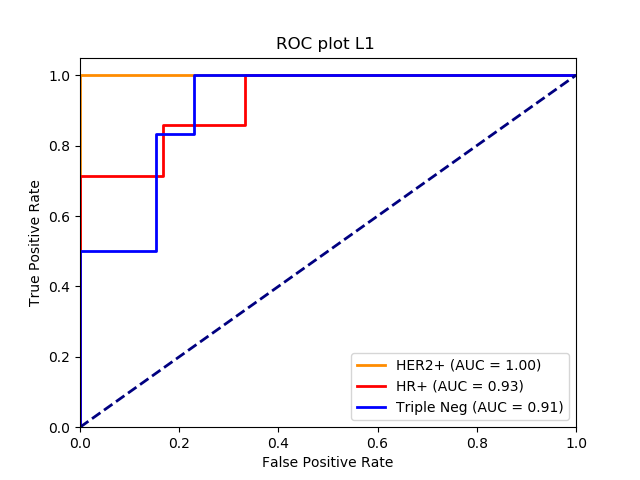
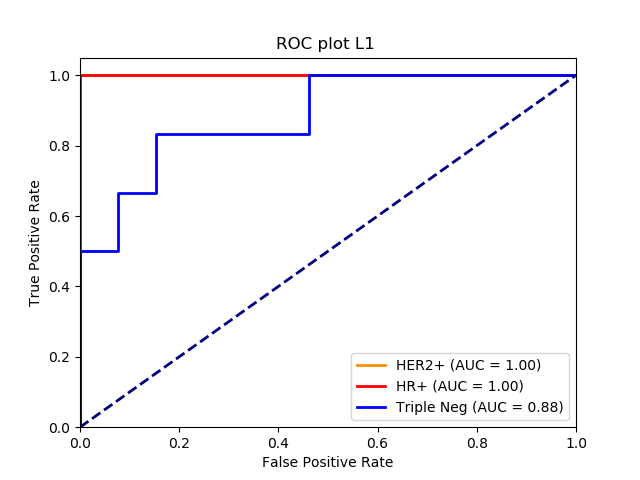
tried to extract best features

Changed region(s): [[0.125, 0.1562, 0.5, 0.5312], [0.75, 0.7812, 0.8125, 0.8125], [0.8438, 0.8438, 0.875, 0.875]]

diff --git a/scripts/Main.py b/scripts/Main.py
@@ -163,6 +163,20 @@ def nested_svm(data, labels, hyperparameters, use_stratified):
     for model in models:
         print(model.n_features, model.best_params, model.c_l1, model.accuracy_validate, model.iteration)
 
+    highest_model = models[0]
+    highest_model_score = models[0].accuracy_validate
+
+    for model in models:
+        current_score = model.accuracy_validate
+        if current_score > highest_model_score:
+            highest_model = model
+            highest_model_score = current_score
+
+    best_features = highest_model.best_features
+    validation_score = highest_model_score
+
+    print(best_features.get_support(), validation_score)
+
 
 def load_data(input_file, label_file):
     data = pd.read_csv(input_file, sep="\t")
